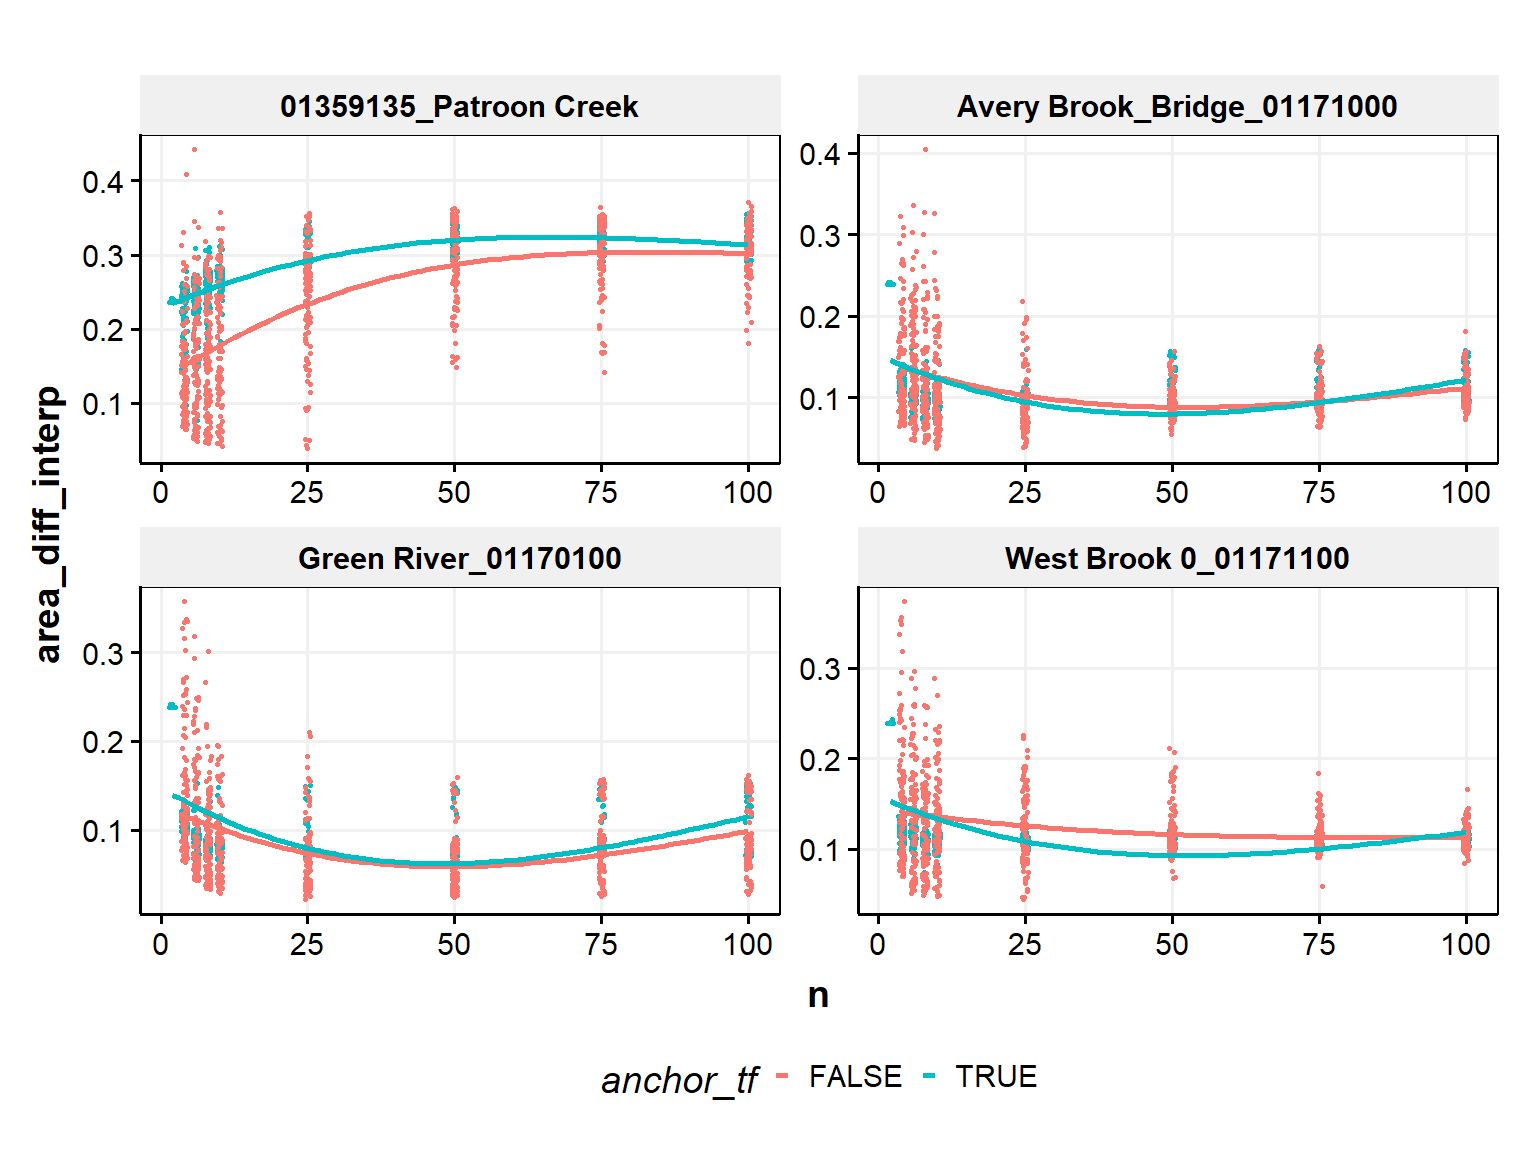
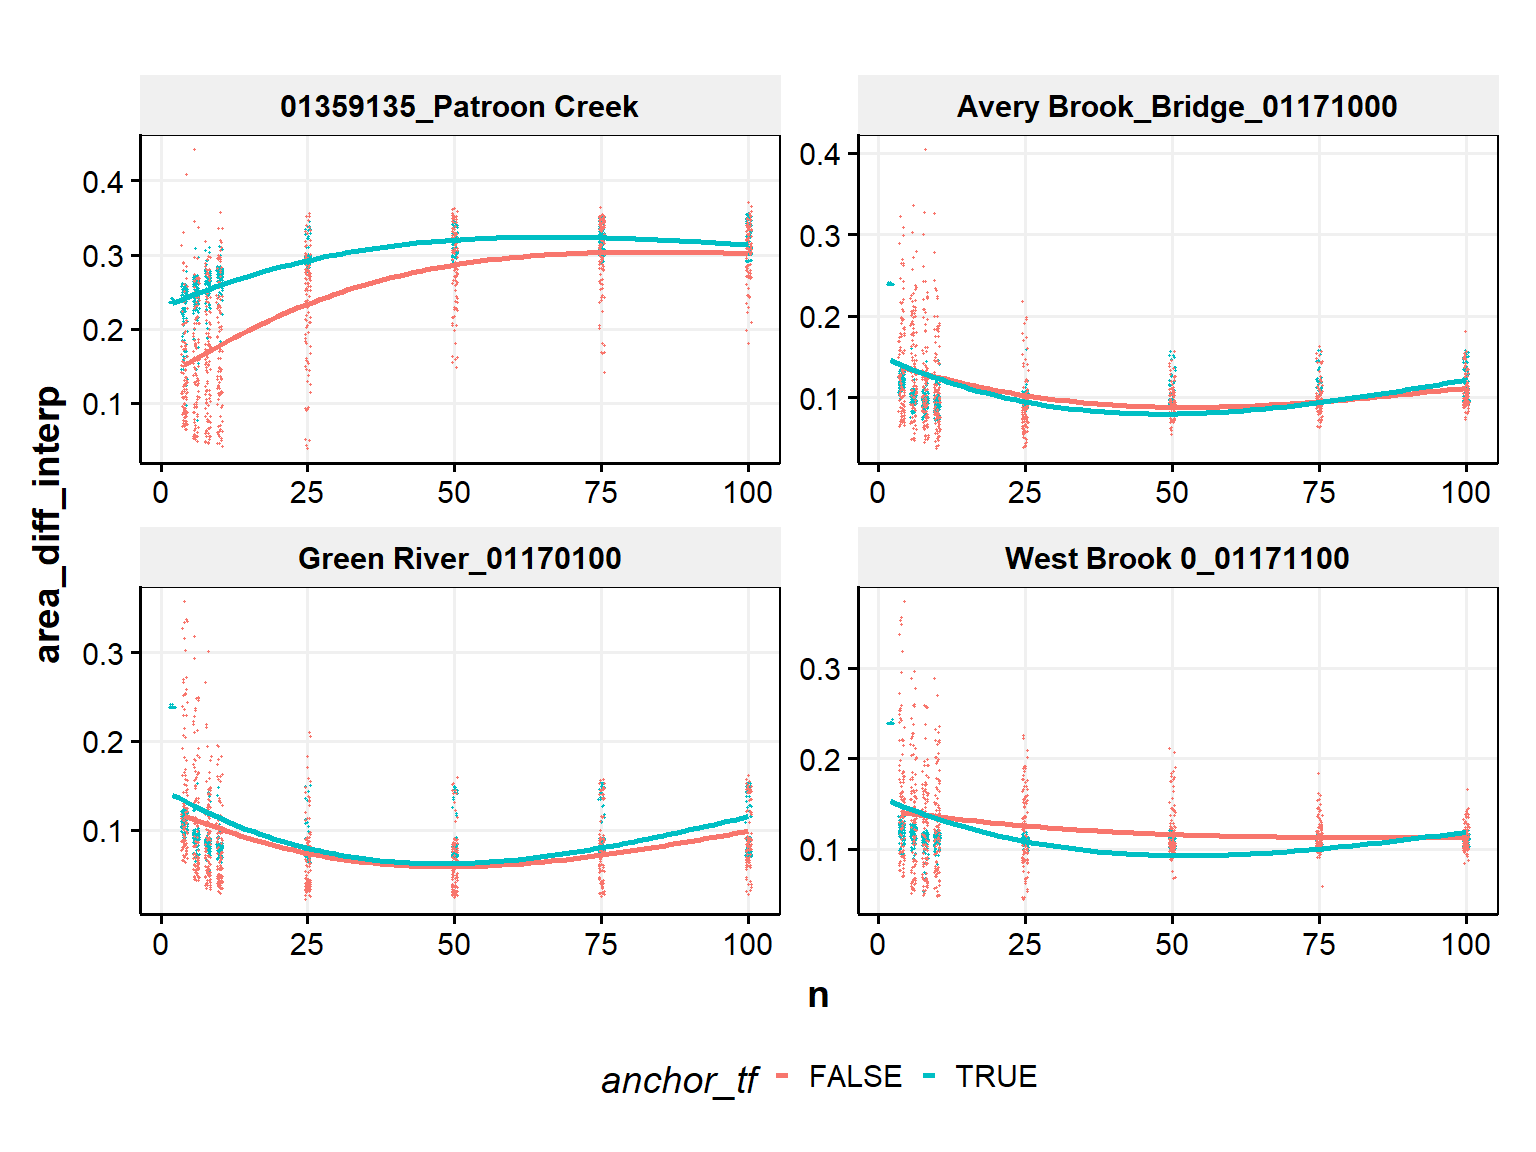
update

diff --git a/docs/realData.html b/docs/realData.html
@@ -1924,7 +1924,7 @@ $figs_smoothed_data_with_anchors</code></pre>
 <div class="sourceCode cell-code" id="cb121"><pre class="sourceCode r code-with-copy"><code class="sourceCode r"><span id="cb121-1"><a href="#cb121-1" aria-hidden="true" tabindex="-1"></a>dummy <span class="ot">&lt;-</span> <span class="dv">1</span></span>
 <span id="cb121-2"><a href="#cb121-2" aria-hidden="true" tabindex="-1"></a></span>
 <span id="cb121-3"><a href="#cb121-3" aria-hidden="true" tabindex="-1"></a><span class="fu">ggplot</span>(sim_diffs_out, <span class="fu">aes</span>(n, area_diff_interp, <span class="at">color =</span> anchor_tf)) <span class="sc">+</span></span>
-<span id="cb121-4"><a href="#cb121-4" aria-hidden="true" tabindex="-1"></a>  <span class="fu">geom_jitter</span>(<span class="at">width =</span> <span class="fl">0.5</span>,  <span class="at">size =</span> <span class="fl">0.5</span>) <span class="sc">+</span></span>
+<span id="cb121-4"><a href="#cb121-4" aria-hidden="true" tabindex="-1"></a>  <span class="fu">geom_jitter</span>(<span class="at">width =</span> <span class="fl">0.5</span>,  <span class="at">size =</span> <span class="fl">0.2</span>) <span class="sc">+</span></span>
 <span id="cb121-5"><a href="#cb121-5" aria-hidden="true" tabindex="-1"></a>  <span class="fu">geom_smooth</span>(<span class="at">method =</span> <span class="st">"gam"</span>, </span>
 <span id="cb121-6"><a href="#cb121-6" aria-hidden="true" tabindex="-1"></a>              <span class="at">formula =</span> y <span class="sc">~</span> <span class="fu">s</span>(x, <span class="at">bs =</span> <span class="st">"cs"</span>, <span class="at">k =</span> <span class="dv">3</span>), <span class="at">se =</span> <span class="cn">FALSE</span>) <span class="sc">+</span></span>
 <span id="cb121-7"><a href="#cb121-7" aria-hidden="true" tabindex="-1"></a>  <span class="co">#geom_smooth(method = "lm", </span></span>
@@ -1951,7 +1951,7 @@ $figs_smoothed_data_with_anchors</code></pre>
 <div class="sourceCode cell-code" id="cb122"><pre class="sourceCode r code-with-copy"><code class="sourceCode r"><span id="cb122-1"><a href="#cb122-1" aria-hidden="true" tabindex="-1"></a>dummy <span class="ot">&lt;-</span> <span class="dv">1</span></span>
 <span id="cb122-2"><a href="#cb122-2" aria-hidden="true" tabindex="-1"></a></span>
 <span id="cb122-3"><a href="#cb122-3" aria-hidden="true" tabindex="-1"></a><span class="fu">ggplot</span>(sim_diffs_out, <span class="fu">aes</span>(n, area_diff_gam, <span class="at">color =</span> anchor_tf)) <span class="sc">+</span></span>
-<span id="cb122-4"><a href="#cb122-4" aria-hidden="true" tabindex="-1"></a>  <span class="fu">geom_jitter</span>(<span class="at">width =</span> <span class="fl">0.5</span>, <span class="at">size =</span> <span class="fl">0.5</span>) <span class="sc">+</span></span>
+<span id="cb122-4"><a href="#cb122-4" aria-hidden="true" tabindex="-1"></a>  <span class="fu">geom_jitter</span>(<span class="at">width =</span> <span class="fl">0.5</span>, <span class="at">size =</span> <span class="fl">0.2</span>) <span class="sc">+</span></span>
 <span id="cb122-5"><a href="#cb122-5" aria-hidden="true" tabindex="-1"></a>  <span class="fu">geom_smooth</span>(<span class="at">method =</span> <span class="st">"gam"</span>, </span>
 <span id="cb122-6"><a href="#cb122-6" aria-hidden="true" tabindex="-1"></a>              <span class="at">formula =</span> y <span class="sc">~</span> <span class="fu">s</span>(x, <span class="at">bs =</span> <span class="st">"cs"</span>, <span class="at">k =</span> <span class="dv">3</span>), <span class="at">se =</span> <span class="cn">FALSE</span>) <span class="sc">+</span></span>
 <span id="cb122-7"><a href="#cb122-7" aria-hidden="true" tabindex="-1"></a>  <span class="fu">facet_wrap</span>(<span class="sc">~</span>station_name, <span class="at">scales =</span> <span class="st">"free"</span>) <span class="sc">+</span></span>
@@ -3533,7 +3533,7 @@ window.document.addEventListener("DOMContentLoaded", function (event) {
 <span id="cb132-890"><a href="#cb132-890" aria-hidden="true" tabindex="-1"></a>dummy <span class="ot">&lt;-</span> <span class="dv">1</span></span>
 <span id="cb132-891"><a href="#cb132-891" aria-hidden="true" tabindex="-1"></a></span>
 <span id="cb132-892"><a href="#cb132-892" aria-hidden="true" tabindex="-1"></a><span class="fu">ggplot</span>(sim_diffs_out, <span class="fu">aes</span>(n, area_diff_interp, <span class="at">color =</span> anchor_tf)) <span class="sc">+</span></span>
-<span id="cb132-893"><a href="#cb132-893" aria-hidden="true" tabindex="-1"></a>  <span class="fu">geom_jitter</span>(<span class="at">width =</span> <span class="fl">0.5</span>,  <span class="at">size =</span> <span class="fl">0.5</span>) <span class="sc">+</span></span>
+<span id="cb132-893"><a href="#cb132-893" aria-hidden="true" tabindex="-1"></a>  <span class="fu">geom_jitter</span>(<span class="at">width =</span> <span class="fl">0.5</span>,  <span class="at">size =</span> <span class="fl">0.2</span>) <span class="sc">+</span></span>
 <span id="cb132-894"><a href="#cb132-894" aria-hidden="true" tabindex="-1"></a>  <span class="fu">geom_smooth</span>(<span class="at">method =</span> <span class="st">"gam"</span>, </span>
 <span id="cb132-895"><a href="#cb132-895" aria-hidden="true" tabindex="-1"></a>              <span class="at">formula =</span> y <span class="sc">~</span> <span class="fu">s</span>(x, <span class="at">bs =</span> <span class="st">"cs"</span>, <span class="at">k =</span> <span class="dv">3</span>), <span class="at">se =</span> <span class="cn">FALSE</span>) <span class="sc">+</span></span>
 <span id="cb132-896"><a href="#cb132-896" aria-hidden="true" tabindex="-1"></a>  <span class="co">#geom_smooth(method = "lm", </span></span>
@@ -3551,7 +3551,7 @@ window.document.addEventListener("DOMContentLoaded", function (event) {
 <span id="cb132-910"><a href="#cb132-910" aria-hidden="true" tabindex="-1"></a>dummy <span class="ot">&lt;-</span> <span class="dv">1</span></span>
 <span id="cb132-911"><a href="#cb132-911" aria-hidden="true" tabindex="-1"></a></span>
 <span id="cb132-912"><a href="#cb132-912" aria-hidden="true" tabindex="-1"></a><span class="fu">ggplot</span>(sim_diffs_out, <span class="fu">aes</span>(n, area_diff_gam, <span class="at">color =</span> anchor_tf)) <span class="sc">+</span></span>
-<span id="cb132-913"><a href="#cb132-913" aria-hidden="true" tabindex="-1"></a>  <span class="fu">geom_jitter</span>(<span class="at">width =</span> <span class="fl">0.5</span>, <span class="at">size =</span> <span class="fl">0.5</span>) <span class="sc">+</span></span>
+<span id="cb132-913"><a href="#cb132-913" aria-hidden="true" tabindex="-1"></a>  <span class="fu">geom_jitter</span>(<span class="at">width =</span> <span class="fl">0.5</span>, <span class="at">size =</span> <span class="fl">0.2</span>) <span class="sc">+</span></span>
 <span id="cb132-914"><a href="#cb132-914" aria-hidden="true" tabindex="-1"></a>  <span class="fu">geom_smooth</span>(<span class="at">method =</span> <span class="st">"gam"</span>, </span>
 <span id="cb132-915"><a href="#cb132-915" aria-hidden="true" tabindex="-1"></a>              <span class="at">formula =</span> y <span class="sc">~</span> <span class="fu">s</span>(x, <span class="at">bs =</span> <span class="st">"cs"</span>, <span class="at">k =</span> <span class="dv">3</span>), <span class="at">se =</span> <span class="cn">FALSE</span>) <span class="sc">+</span></span>
 <span id="cb132-916"><a href="#cb132-916" aria-hidden="true" tabindex="-1"></a>  <span class="fu">facet_wrap</span>(<span class="sc">~</span>station_name, <span class="at">scales =</span> <span class="st">"free"</span>) <span class="sc">+</span></span>
